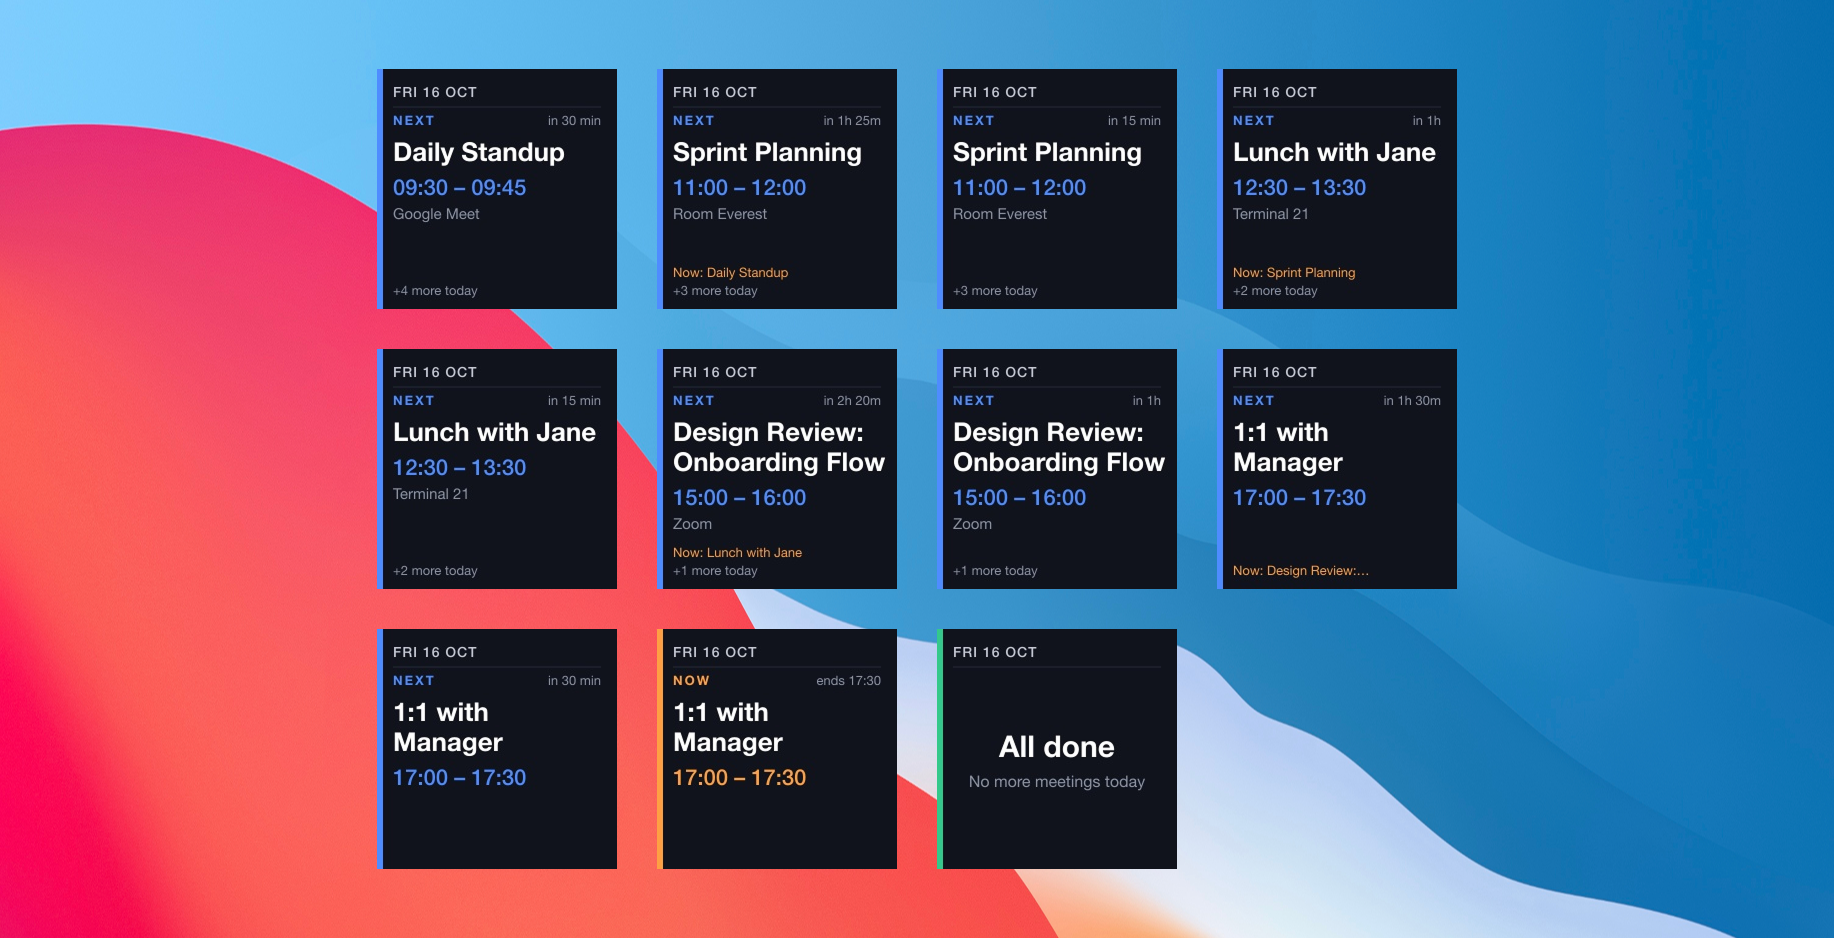
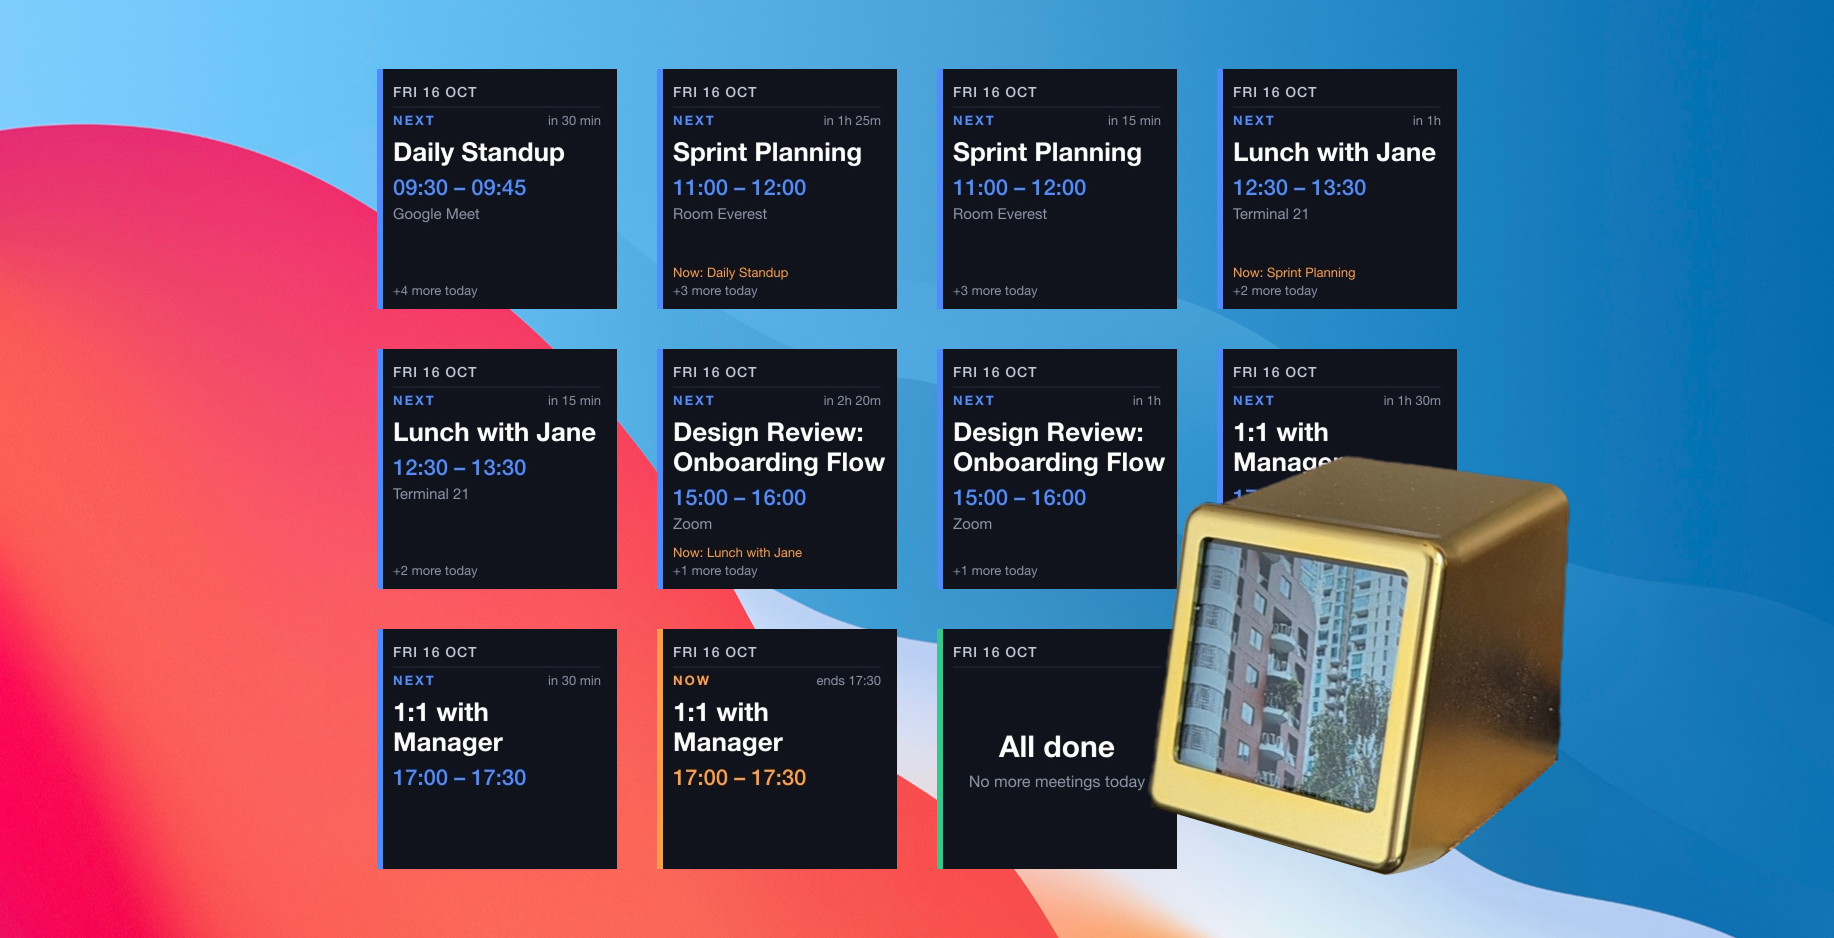
Update License and Preview

Changed region(s): [[0.6216, 0.4638, 0.8702, 0.9275]]

diff --git a/README.md b/README.md
@@ -235,3 +235,7 @@ src/
 | เวลาในการ์ดไม่ตรง | การ์ดใช้เขตเวลาของเครื่องที่รันสคริปต์ |
 | `Bad INTERVAL_MINUTES` | ใส่เป็นตัวเลขมากกว่า 0 |
 | ฟอนต์ในการ์ดดูต่างจากตัวอย่าง | SVG ใช้ฟอนต์ที่มีในเครื่อง (Helvetica/Arial) บน Linux/Windows อาจต่างเล็กน้อย |
+
+## 📄 License
+
+MIT — ดูไฟล์ [LICENSE](LICENSE)
